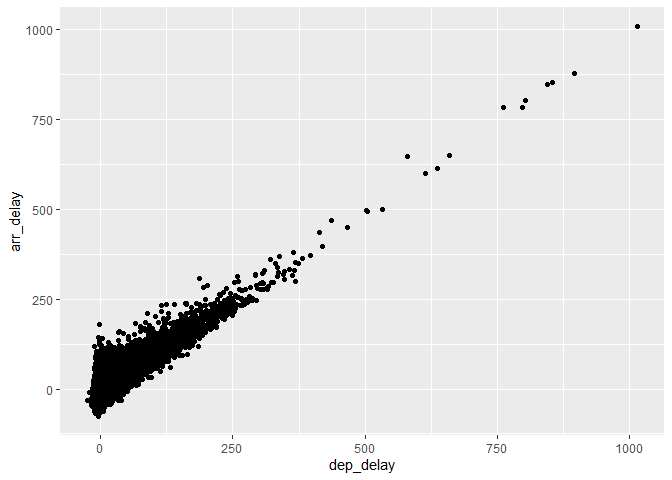
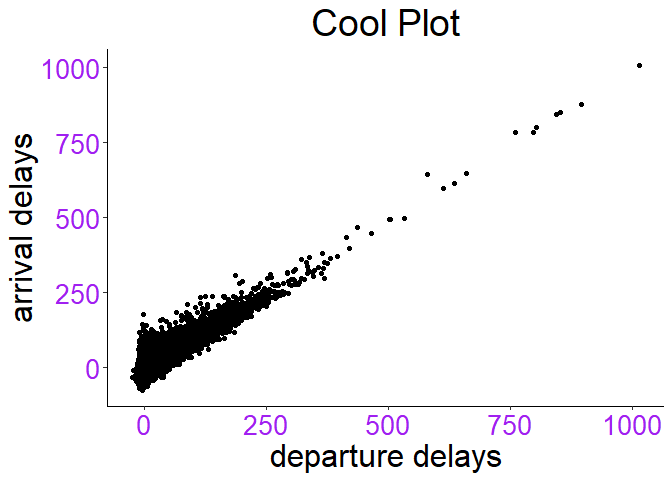
practice with the plot accents

diff --git a/hmwk_4_v-1.md b/hmwk_4_v-1.md
@@ -6,7 +6,7 @@ Some math AKA Homework 4
 Homework 4 writing script to do some simple math equations and learning
 to use functions and make these functions a plot. \#
 
-## Calculting the sum
+## Calculating the sum
 
 assigning a value to an object and adding two objects together \#\#
 
@@ -38,8 +38,14 @@ AA_flights <- filter(flights, carrier == "AA")
 flights is a data set inside the data frame nyc flights.
 
 ``` r
-ggplot(data= AA_flights, mapping = aes(x=dep_delay, y=arr_delay))+
+test_name_plot <- ggplot(data= AA_flights, mapping = aes(x=dep_delay, y=arr_delay))+
   geom_point()
+test_name_plot+
+  labs(title = "Cool Plot", y= "arrival delays", x= "departure delays")+
+  theme_classic()+
+  theme(axis.title=element_text(size=24),
+        axis.text=element_text(size=20,color="purple"), 
+        plot.title = element_text(size = 28, hjust = .5) )
 ```
 
     ## Warning: Removed 782 rows containing missing values (geom_point).
